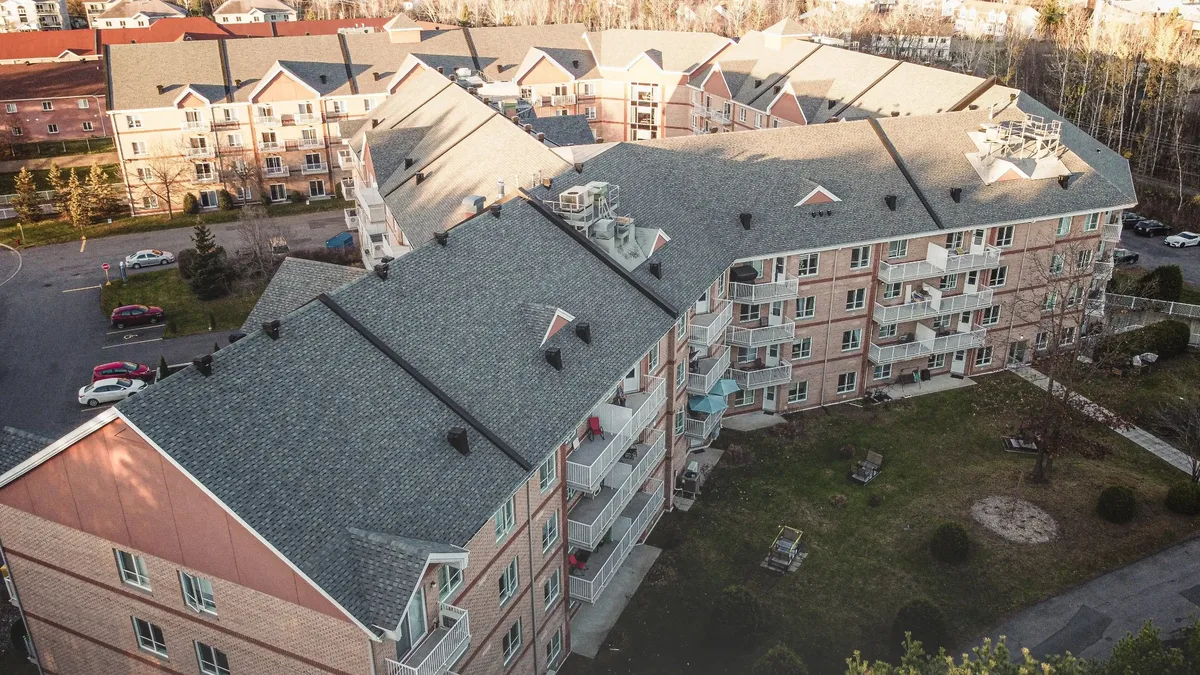
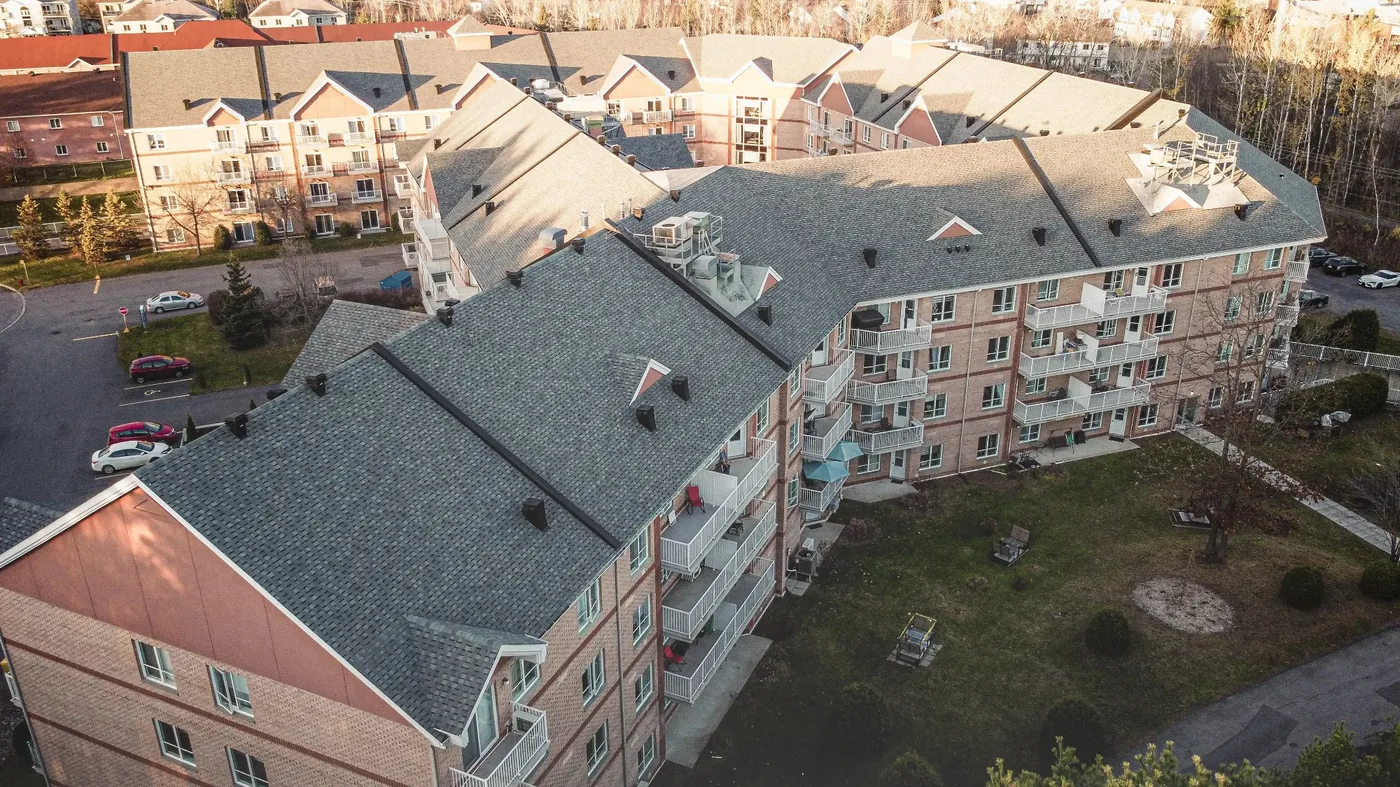
pages services v4 - photos réelles installées

diff --git a/services/installation-toiture.html b/services/installation-toiture.html
@@ -511,9 +511,7 @@
 
   <!-- HERO -->
   <section class="hero">
-    <div class="hero-bg">
-      <img src="/images/photos/chantier-rona-camion-2.webp" alt="Option Toiture - chantier" style="width:100%;height:100%;object-fit:cover;opacity:.4;">
-    </div>
+    <div class="hero-bg"><img src="/images/photos/chantier-drone-camion.webp" alt="Option Toiture" style="width:100%;height:100%;object-fit:cover;opacity:.4;"></div>
     <div class="hero-overlay"></div>
     <div class="hero-content container">
       <span class="overline reveal">Service d'installation</span>
@@ -547,9 +545,7 @@
           <p>Chez Option Toiture, l'installation d'une nouvelle toiture ne se limite pas à poser des bardeaux. C'est un processus rigoureux qui commence par une <strong>inspection complète de votre charpente et de votre pontage</strong>, suivie d'une recommandation personnalisée basée sur les spécificités de votre propriété.</p>
           <p>Nous utilisons exclusivement des <strong>bardeaux architecturaux GAF</strong> — le standard de l'industrie en Amérique du Nord — combinés à un système complet de sous-couche synthétique, membrane Ice &amp; Water Shield aux endroits critiques, ventilation optimisée et ferblanterie de calibre professionnel. Le résultat : une toiture qui protège votre maison pour des décennies.</p>
         </div>
-        <div class="intro-img reveal reveal-d2">
-          <img src="/images/photos/chantier-drone-camion.webp" alt="Option Toiture" style="width:100%;height:100%;object-fit:cover;">
-        </div>
+        <div class="intro-img reveal reveal-d2"><img src="/images/photos/chantier-rona-camion-2.webp" alt="Option Toiture" style="width:100%;height:100%;object-fit:cover;"></div>
       </div>
     </div>
   </section>

diff --git a/services/ventilation-entretoit.html b/services/ventilation-entretoit.html
@@ -511,9 +511,7 @@
 
   <!-- HERO -->
   <section class="hero">
-    <div class="hero-bg">
-      <img src="/images/photos/chantier-drone-camion.webp" alt="Option Toiture - chantier" style="width:100%;height:100%;object-fit:cover;opacity:.4;">
-    </div>
+    <div class="hero-bg"><img src="/images/services/ventilation-entretoit.webp" alt="Option Toiture" style="width:100%;height:100%;object-fit:cover;opacity:.4;"></div>
     <div class="hero-overlay"></div>
     <div class="hero-content container">
       <span class="overline reveal">Service de ventilation</span>
@@ -547,9 +545,7 @@
           <p>La ventilation de l'entretoit est l'un des aspects les plus sous-estimés d'une toiture performante. Un entretoit mal ventilé crée des <strong>barrières de glace en hiver</strong> (la chaleur monte, fait fondre la neige qui regèle à l'avant-toit) et une <strong>surchauffe en été</strong> qui accélère le vieillissement de vos bardeaux.</p>
           <p>La solution est un équilibre entre <strong>admission d'air (soffites)</strong> et <strong>évacuation (évent de faîte ou aérateurs)</strong>. Nous évaluons votre configuration actuelle et optimisons la circulation d'air pour atteindre le ratio recommandé par le Code du bâtiment : 1 pi² de ventilation nette pour chaque 300 pi² de surface d'entretoit.</p>
         </div>
-        <div class="intro-img reveal reveal-d2">
-          <img src="/images/photos/chantier-brique-drone.webp" alt="Option Toiture" style="width:100%;height:100%;object-fit:cover;">
-        </div>
+        <div class="intro-img reveal reveal-d2"><img src="/images/photos/chantier-drone-camion.webp" alt="Option Toiture" style="width:100%;height:100%;object-fit:cover;"></div>
       </div>
     </div>
   </section>

diff --git a/services/remplacement-toiture.html b/services/remplacement-toiture.html
@@ -511,9 +511,7 @@
 
   <!-- HERO -->
   <section class="hero">
-    <div class="hero-bg">
-      <img src="/images/photos/chantier-residential-drone.webp" alt="Option Toiture - chantier" style="width:100%;height:100%;object-fit:cover;opacity:.4;">
-    </div>
+    <div class="hero-bg"><img src="/images/services/remplacement-toiture.webp" alt="Option Toiture" style="width:100%;height:100%;object-fit:cover;opacity:.4;"></div>
     <div class="hero-overlay"></div>
     <div class="hero-content container">
       <span class="overline reveal">Service de remplacement</span>
@@ -547,9 +545,7 @@
           <p>Au Québec, une toiture en bardeaux d'asphalte a une durée de vie réaliste de <strong>15 à 25 ans</strong>. Si votre toiture approche ou dépasse cette marque, un remplacement complet est souvent plus rentable que des réparations répétées. C'est aussi l'occasion d'améliorer l'isolation, la ventilation et l'étanchéité de votre maison.</p>
           <p>Notre processus de remplacement est méthodique : <strong>retrait complet de l'ancien revêtement</strong>, inspection minutieuse du pontage (et remplacement des sections pourries), installation d'un système complet neuf — membrane, sous-couche, bardeaux GAF, solins, larmiers et ventilation. Rien n'est laissé au hasard.</p>
         </div>
-        <div class="intro-img reveal reveal-d2">
-          <img src="/images/photos/chantier-residential-drone-2.webp" alt="Option Toiture" style="width:100%;height:100%;object-fit:cover;">
-        </div>
+        <div class="intro-img reveal reveal-d2"><img src="/images/photos/chantier-residential-drone.webp" alt="Option Toiture" style="width:100%;height:100%;object-fit:cover;"></div>
       </div>
     </div>
   </section>

diff --git a/services/toiture-commerciale.html b/services/toiture-commerciale.html
@@ -511,9 +511,7 @@
 
   <!-- HERO -->
   <section class="hero">
-    <div class="hero-bg">
-      <img src="/images/photos/multilogement-grue.webp" alt="Option Toiture - chantier" style="width:100%;height:100%;object-fit:cover;opacity:.4;">
-    </div>
+    <div class="hero-bg"><img src="/images/services/toiture-commerciale.webp" alt="Option Toiture" style="width:100%;height:100%;object-fit:cover;opacity:.4;"></div>
     <div class="hero-overlay"></div>
     <div class="hero-content container">
       <span class="overline reveal">Service commercial</span>
@@ -547,9 +545,7 @@
           <p>Les immeubles commerciaux et multi-logements ont des besoins spécifiques en matière de toiture. Notre équipe possède l'expertise pour gérer des <strong>projets de grande envergure</strong> — de 2 000 à plus de 10 000 pi² — avec un minimum de perturbation pour vos activités ou vos locataires.</p>
           <p>Nous offrons des solutions adaptées à chaque type de bâtiment : <strong>bardeaux d'asphalte architecturaux</strong> pour les toits en pente et <strong>membrane élastomère</strong> pour les toits plats. Chaque projet inclut une évaluation structurale complète et un plan de travail détaillé pour minimiser l'impact sur vos opérations.</p>
         </div>
-        <div class="intro-img reveal reveal-d2">
-          <img src="/images/photos/chantier-residential-drone.webp" alt="Option Toiture" style="width:100%;height:100%;object-fit:cover;">
-        </div>
+        <div class="intro-img reveal reveal-d2"><img src="/images/photos/multilogement-grue.webp" alt="Option Toiture" style="width:100%;height:100%;object-fit:cover;"></div>
       </div>
     </div>
   </section>

diff --git a/services/ferblanterie-gouttieres.html b/services/ferblanterie-gouttieres.html
@@ -511,9 +511,7 @@
 
   <!-- HERO -->
   <section class="hero">
-    <div class="hero-bg">
-      <img src="/images/photos/chantier-bord-eau.webp" alt="Option Toiture - chantier" style="width:100%;height:100%;object-fit:cover;opacity:.4;">
-    </div>
+    <div class="hero-bg"><img src="/images/services/ferblanterie-gouttieres.webp" alt="Option Toiture" style="width:100%;height:100%;object-fit:cover;opacity:.4;"></div>
     <div class="hero-overlay"></div>
     <div class="hero-content container">
       <span class="overline reveal">Service de ferblanterie</span>
@@ -547,9 +545,7 @@
           <p>La ferblanterie est souvent l'élément invisible qui fait toute la différence entre une toiture qui dure et une toiture qui développe des problèmes prématurés. Les <strong>solins, larmiers, noues et gouttières</strong> sont les composants qui gèrent l'écoulement de l'eau — le plus grand ennemi de votre maison.</p>
           <p>Notre équipe fabrique et installe la ferblanterie <strong>directement sur le chantier</strong>, avec des matériaux de calibre professionnel. Pas de pièces génériques prédécoupées — chaque solin, chaque larmier est coupé et plié sur mesure pour s'adapter parfaitement à votre toiture.</p>
         </div>
-        <div class="intro-img reveal reveal-d2">
-          <img src="/images/photos/chantier-camion-option-toiture.webp" alt="Option Toiture" style="width:100%;height:100%;object-fit:cover;">
-        </div>
+        <div class="intro-img reveal reveal-d2"><img src="/images/photos/chantier-bord-eau.webp" alt="Option Toiture" style="width:100%;height:100%;object-fit:cover;"></div>
       </div>
     </div>
   </section>

diff --git a/services/reparation-toiture.html b/services/reparation-toiture.html
@@ -511,9 +511,7 @@
 
   <!-- HERO -->
   <section class="hero">
-    <div class="hero-bg">
-      <img src="/images/photos/chantier-brique-drone.webp" alt="Option Toiture - chantier" style="width:100%;height:100%;object-fit:cover;opacity:.4;">
-    </div>
+    <div class="hero-bg"><img src="/images/services/reparation-toiture.webp" alt="Option Toiture" style="width:100%;height:100%;object-fit:cover;opacity:.4;"></div>
     <div class="hero-overlay"></div>
     <div class="hero-content container">
       <span class="overline reveal">Service de réparation</span>
@@ -547,9 +545,7 @@
           <p>Que ce soit à la suite d'une tempête, de vents violents ou simplement en raison de l'usure du temps, notre équipe inspecte minutieusement votre toiture afin de <strong>cibler les interventions nécessaires</strong>. Nous privilégions une approche honnête en réparant uniquement ce qui doit l'être.</p>
           <p>Chaque réparation commence par un <strong>diagnostic précis de la source du problème</strong>. Infiltration active? Bardeaux soulevés par le vent? Solin de cheminée décollé? Nous identifions la cause exacte et appliquons une réparation durable — pas un pansement temporaire.</p>
         </div>
-        <div class="intro-img reveal reveal-d2">
-          <img src="/images/photos/chantier-camion-option-toiture.webp" alt="Option Toiture" style="width:100%;height:100%;object-fit:cover;">
-        </div>
+        <div class="intro-img reveal reveal-d2"><img src="/images/photos/chantier-brique-drone.webp" alt="Option Toiture" style="width:100%;height:100%;object-fit:cover;"></div>
       </div>
     </div>
   </section>
